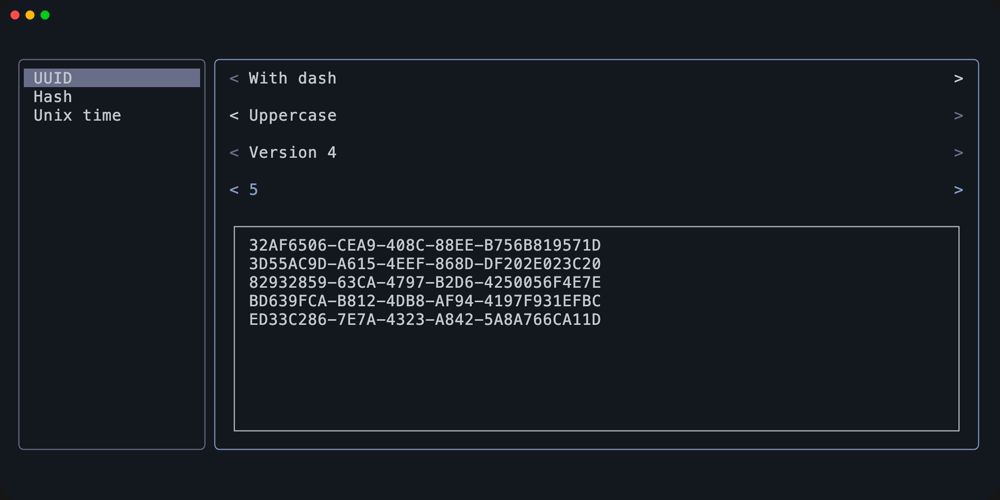
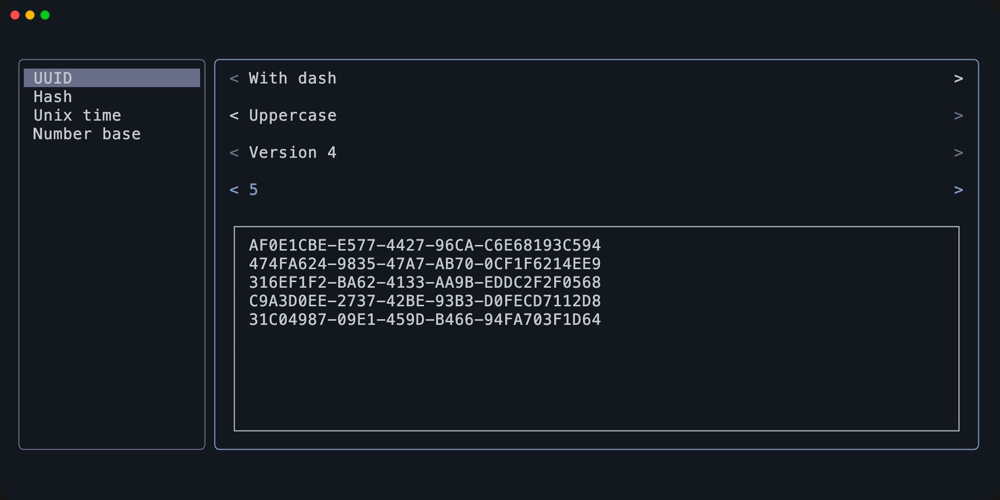
Update README

Changed region(s): [[0.248, 0.48, 0.62, 0.66], [0.031, 0.24, 0.155, 0.3]]

diff --git a/README.md b/README.md
@@ -9,6 +9,7 @@ my personal toolbox app
 <img src="./img/uuid.png" width=600>
 <img src="./img/hash.png" width=600>
 <img src="./img/unixtime.png" width=600>
+<img src="./img/numberbase.png" width=600>
 
 ## License
 
